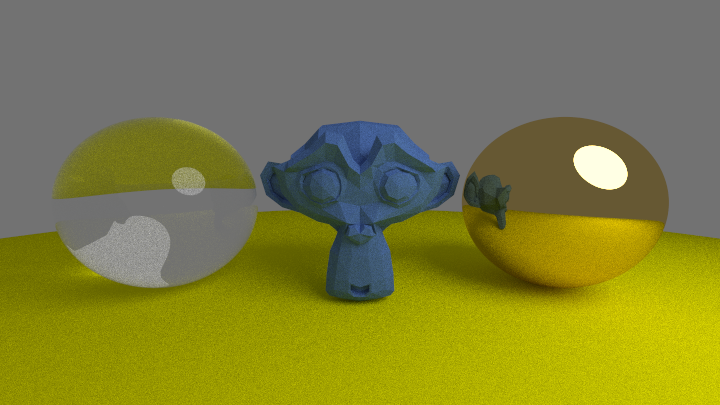
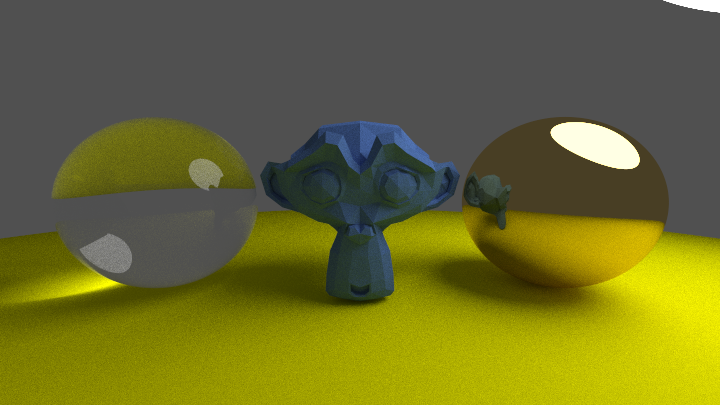
Render with 1024 samples

diff --git a/src/main.cpp b/src/main.cpp
@@ -21,13 +21,13 @@ int main() {
     world.add(make_shared<Sphere>(point3( -2.3, 0.0, 0), 1.0, material_left));
     world.add(make_shared<Mesh>("../res/models/suzanne.obj", material_center));
     world.add(make_shared<Sphere>(point3( 2.3, 0.0, 0.0), 1.0, material_right));
-    world.add(make_shared<Sphere>(point3( 5.0, 5.0, 5.0), 3.0, difflight));
+    world.add(make_shared<Sphere>(point3( 5.0, 5.0, 1.0), 3.0, difflight));
 
     Camera cam;
 
     cam.aspect_ratio      = 16.0 / 9.0;
     cam.image_width       = 720;
-    cam.samples_per_pixel = 512;
+    cam.samples_per_pixel = 1024;
     cam.max_depth         = 32;
     cam.fps               = 30;
 
@@ -35,7 +35,7 @@ int main() {
     cam.lookfrom = point3(0, 0.4, 3.5);
     cam.lookat   = point3(0, 0, 0);
     cam.vup      = vec3(0, 1, 0);
-    cam.background = color(0.2, 0.2, 0.2);
+    cam.background = color(0.1, 0.1, 0.1);
 
     auto start = steady_clock::now();
 
